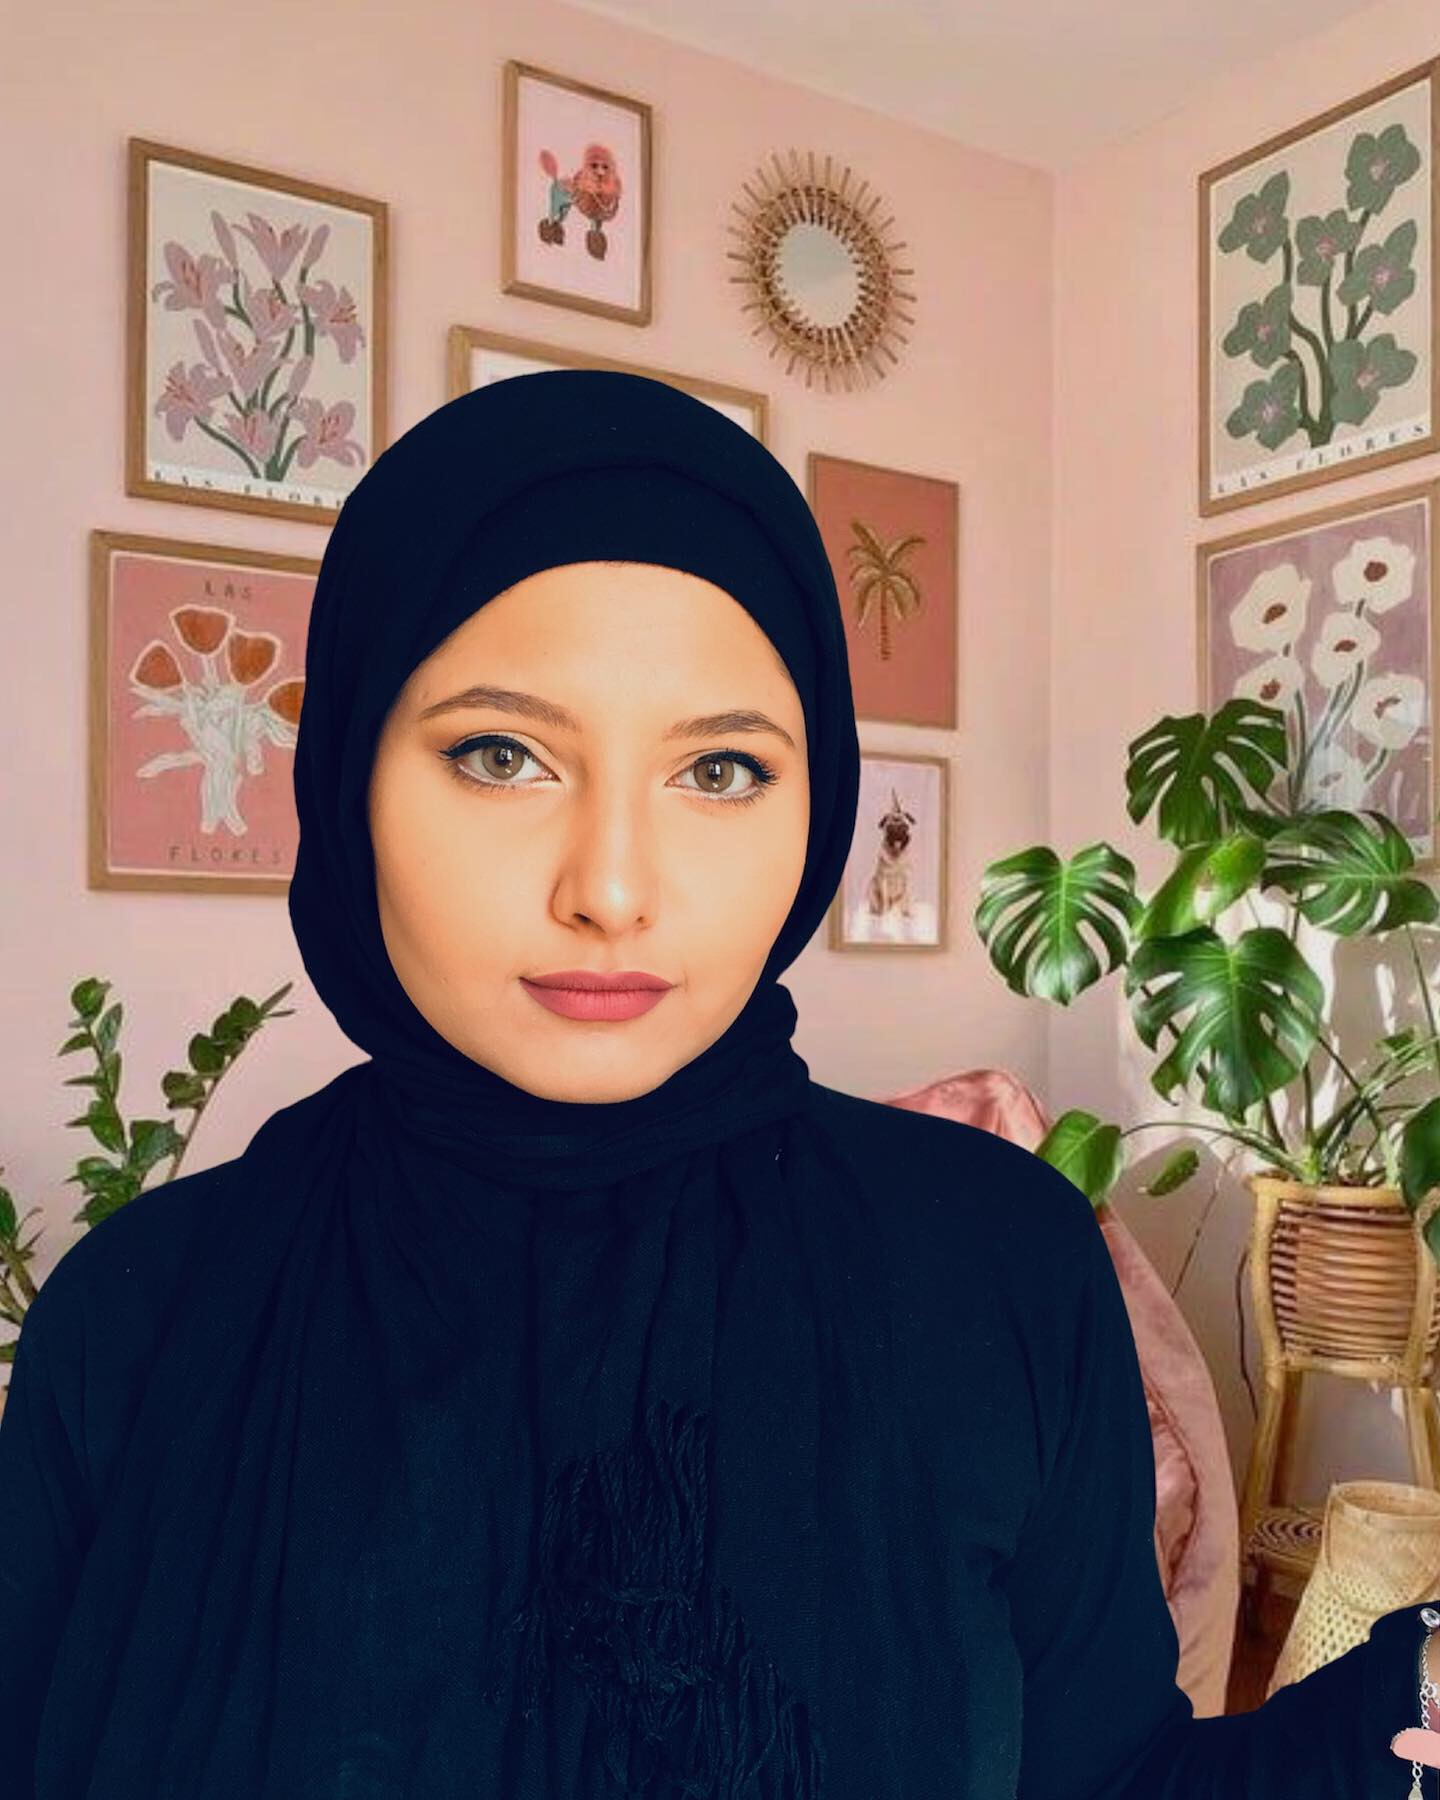
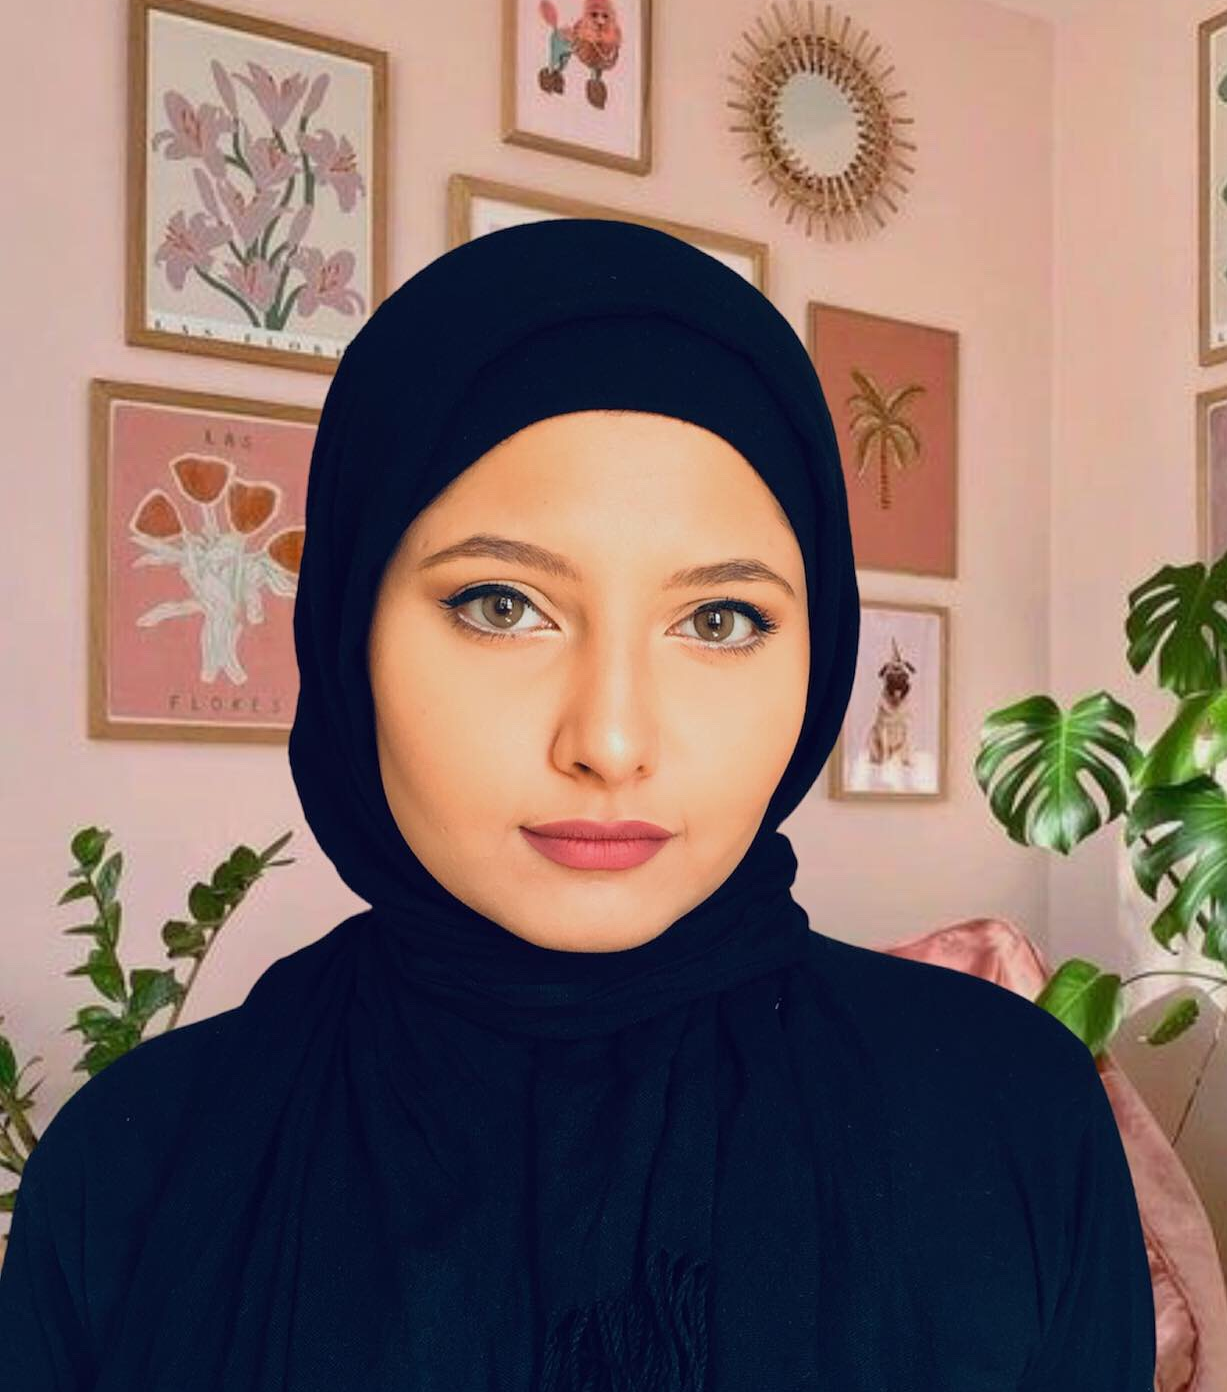
updated

diff --git a/src/Home.js b/src/Home.js
@@ -23,8 +23,10 @@ export default function Home() {
       <main className='bg-red-200'>
         <section className="min-h-screen ">
           <div>
+            <div className=" w-64 h-64 overflow-hidden rounded-full mx-auto block ">
             <img src={personal}
-            className='w-80 h-80 rounded-full flex mx-auto pt-8' alt="radwa" /> <br />
+            className=' object-cover object-center w-full h-full' alt="radwa" /> 
+            </div><br />
                   <h1 className=" text-center font-bold text-3xl hover:font-serif text-gray-900">Radwa Khalaf</h1>
 
             <h1 className="text-center font-bold text-2xl"> Front-End Web Developer</h1>
